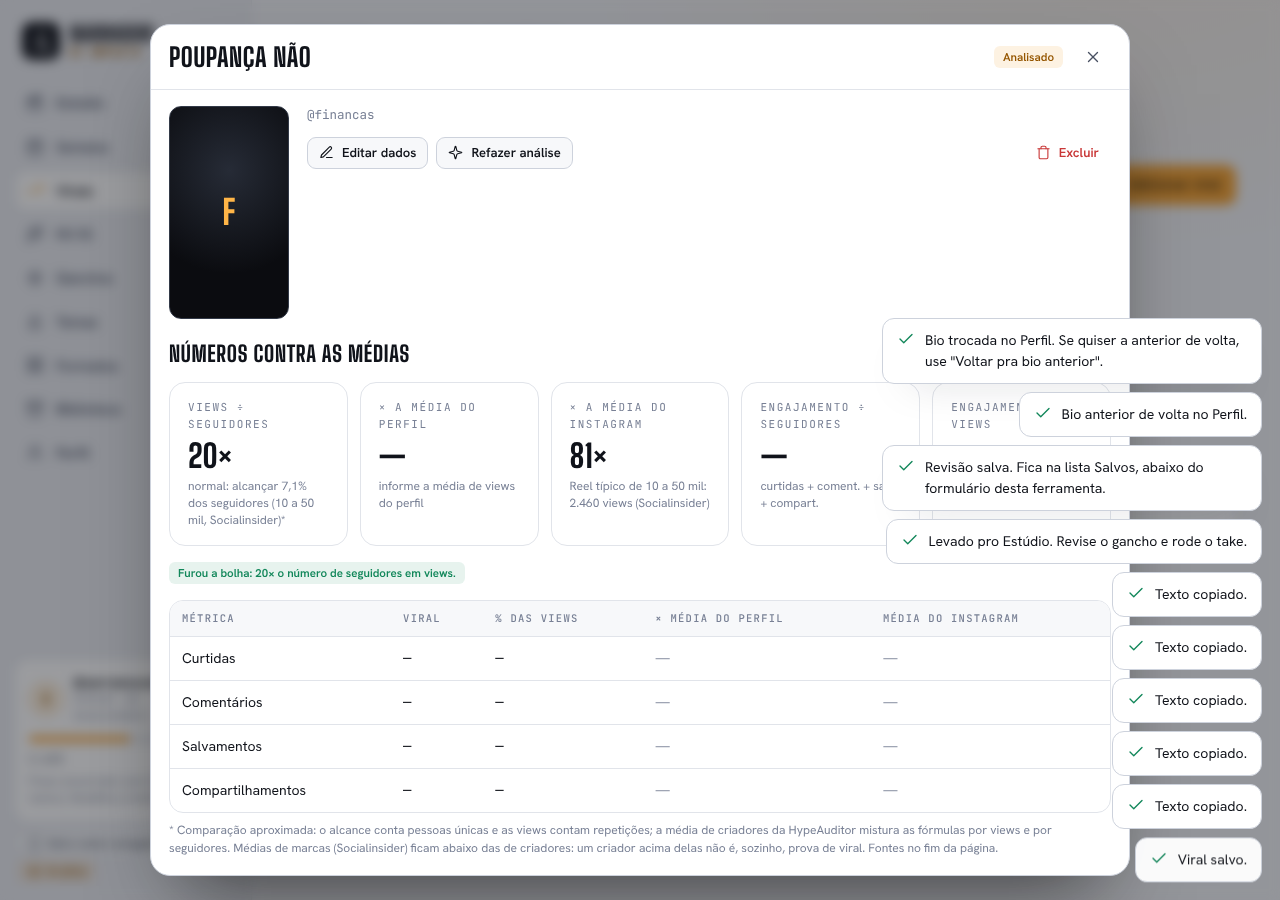
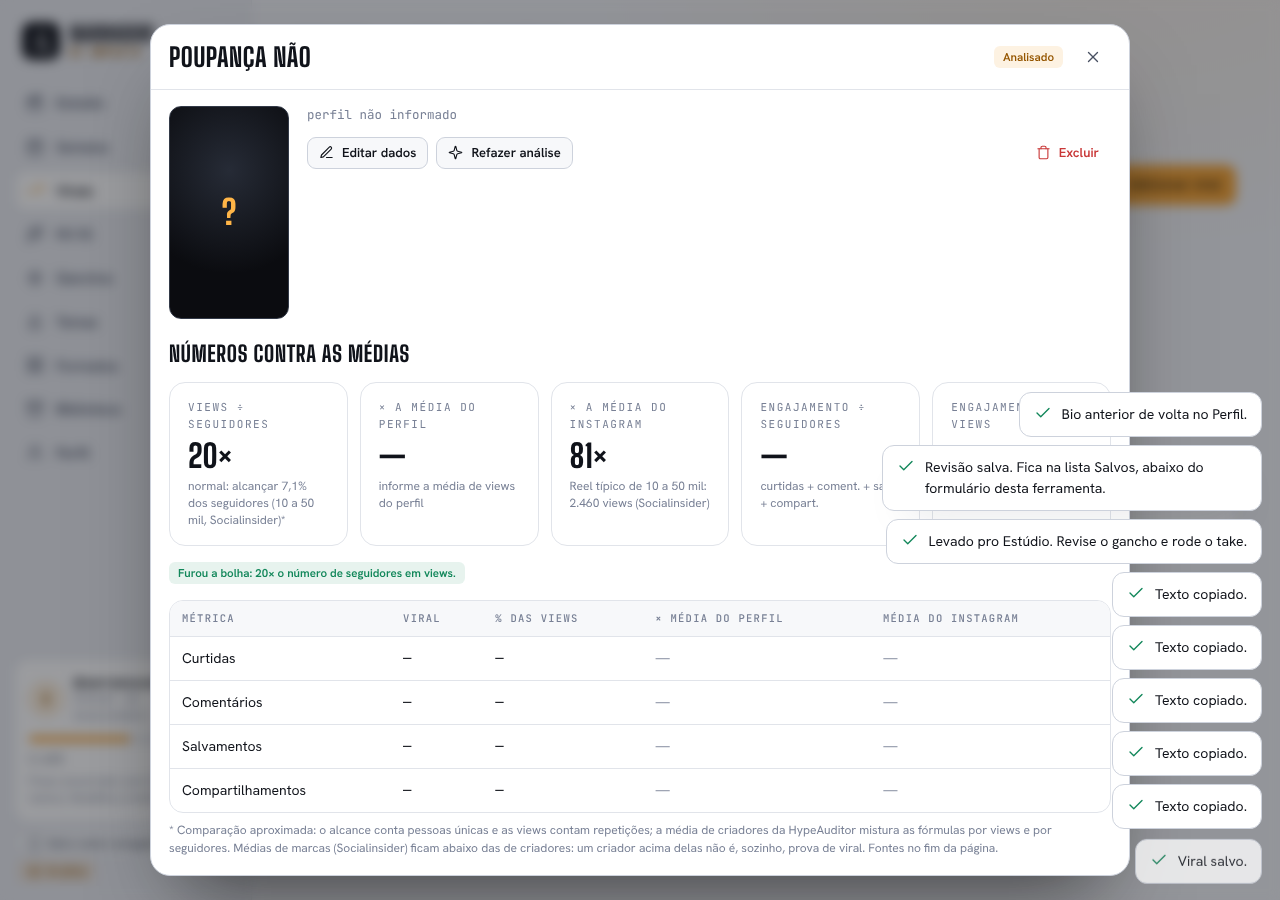
Narrador: carrossel lido pelos prints dos slides (texto, descrição, números) e 'o que era o post' na análise
Claude-Session: https://claude.ai/code/session_01QAZrbRGiPp3RE4ZVEmkwUk

diff --git a/narrador/app.js b/narrador/app.js
@@ -1451,7 +1451,7 @@
         <p class="faint" style="margin:6px 0 10px; font-size:13.5px">Suba os prints de cada slide, na ordem (o primeiro é a capa). A IA lê o texto, o design e a sequência de cada slide. Valem nesta sessão; a capa fica salva.</p>
         <div class="files">${(M.frames || []).map((f, i) => `<div class="fprev"><img src="${esc(M.frameUrls[i])}" alt="Slide ${i + 1}"><span class="tag mono" style="position:absolute; left:4px; bottom:4px; height:18px; font-size:10px">${i + 1}</span></div>`).join('')}
           ${(M.frames || []).length < 20 ? `<label class="fadd" for="v-slides">${ic('upload')}<span>${(M.frames || []).length ? 'Mais slides' : 'Subir slides'}</span></label>` : ''}<input type="file" id="v-slides" accept="image/png,image/jpeg,image/webp" multiple hidden></div>
-        ${(M.frames || []).length ? `<div class="toolbar" style="margin-top:8px"><span class="tag good">${M.frames.length} slides</span><button class="btn xs ghost" data-a="rm-video">${ic('x', 'sm')} Tirar slides</button></div>` : ''}</section>` : `<section><div class="eyebrow">Vídeo do Reel (opcional, recomendado)</div>
+        ${(M.frames || []).length ? `<div class="toolbar" style="margin-top:8px"><span class="tag good">${M.frames.length} slides</span>${M.lendoSlides ? '<span class="tag amber">Lendo os slides…</span>' : M.draft.assistido ? '<span class="tag good">Slides lidos</span>' : ''}<button class="btn xs ghost" data-a="rm-video">${ic('x', 'sm')} Tirar slides</button></div>` : ''}</section>` : `<section><div class="eyebrow">Vídeo do Reel (opcional, recomendado)</div>
         <p class="faint" style="margin:6px 0 10px; font-size:13.5px">Baixe o Reel e suba o arquivo aqui. O app tira quadros do vídeo ao longo do tempo (o primeiro frame, os 3 primeiros segundos e o resto) e a IA "assiste" por eles: enquadramento, texto na tela, cortes, ritmo e prova. O app não ouve o áudio: cole a fala em "Transcrição" (a legenda automática do Instagram ajuda). O vídeo não fica salvo; os quadros valem nesta sessão.</p>
         <div class="files">${(M.frames || []).map((f, i) => `<div class="fprev"><img src="${esc(M.frameUrls[i])}" alt="Quadro aos ${f.t.toFixed(1)} s"><span class="tag mono" style="position:absolute; left:4px; bottom:4px; height:18px; font-size:10px">${f.t.toFixed(1)}s</span></div>`).join('')}
           <label class="fadd" for="v-video">${ic('upload')}<span>${M.extraindo ? 'Lendo o vídeo…' : (M.frames || []).length ? 'Trocar vídeo' : 'Subir vídeo'}</span></label><input type="file" id="v-video" accept="video/*" hidden></div>
@@ -1535,6 +1535,7 @@
     const gc = A.gancho || {};
     const list = (arr, cls) => (arr || []).length ? `<ul class="list ${cls || ''}">${arr.map(x => `<li>${esc(x)}</li>`).join('')}</ul>` : '<p class="faint" style="margin:0">—</p>';
     return `<div class="analysis vanalysis">
+      ${A.conteudo ? `<div><h5>O que era o ${v.tipo === 'carrossel' ? 'carrossel' : 'post'}</h5><p style="margin:0; font-size:15px; line-height:1.55">${esc(A.conteudo)}</p></div>` : ''}
       <div class="decision"><b>Por que viralizou</b>${esc(A.veredito || '')}</div>
       ${(A.fatores || []).length ? `<div><h5>Fatores, do mais forte ao mais fraco</h5><div class="fatores">${A.fatores.map(f => `<div class="fator"><span class="tag">${esc(AREA[f.area] || f.area)}</span><span class="peso" role="img" aria-label="peso ${f.peso} de 5">${[1, 2, 3, 4, 5].map(i => `<i class="${i <= f.peso ? 'on' : ''}"></i>`).join('')}</span><div><p>${esc(f.porque)}</p>${f.evidencia ? `<small>${esc(f.evidencia)}</small>` : ''}</div></div>`).join('')}</div></div>` : ''}
       ${gc.texto ? `<div><h5>O gancho do viral</h5><div class="nextcard" style="flex-direction:column; align-items:flex-start; gap:8px"><q class="mq" style="margin:0">${esc(gc.texto)}</q>
@@ -1663,6 +1664,32 @@
     M.frameUrls = M.frames.map(f => URL.createObjectURL(f.blob));
     if (!M.draft.thumb || M.thumbAuto) { M.draft.thumb = await thumbFrom(M.frames[0].blob); M.thumbAuto = true; }
     if (ui.modal === M) renderModal();
+    if (ui.modal === M && ui.ai === 'on' && ui.imgMax > 0) lerSlides();
+  }
+  // lê os slides com a IA: texto de cada slide, design, do que trata o post e os números se aparecerem
+  async function lerSlides() {
+    const M = ui.modal; if (!M || !sampleFn || M.lendoSlides) return;
+    const lim = ui.imgLim || {};
+    const fr = (M.frames || []).filter(f => !lim.maxInputBytes || f.blob.size <= lim.maxInputBytes);
+    const pr = filesParaIA(M.files || []).slice(0, 1);
+    const imgs = fr.slice(0, Math.max(1, (lim.maxCount || 1) - pr.length)).map(f => f.blob).concat(pr);
+    if (!imgs.length) return;
+    M.lendoSlides = true; renderModal();
+    try {
+      const r = await sampleFn.json(`As ${imgs.length} imagens são ${pr.length ? `os slides de um carrossel do Instagram, em ordem (a primeira é a capa), e a última é um print do post com os contadores` : 'os slides de um carrossel do Instagram, em ordem (a primeira é a capa)'}${fr.length > imgs.length - pr.length ? `; o carrossel tem ${fr.length} slides e só vieram os primeiros` : ''}. Leia SÓ o que aparece, sem inventar. Português do Brasil.
+Responda só com JSON:
+{"slides": [{"n": 1, "texto": "o texto do slide, completo", "visual": "o que aparece: foto, print, gráfico, tipografia, cores"}], "descricao": "o que era o post: do que trata, como aborda o tema, em que formato (lista, antes e depois, comparativo, passo a passo, mito × verdade...) e como a sequência conduz até o final, em 3 a 5 frases", "titulo": "assunto em até 8 palavras", "design": "o padrão visual entre os slides em 1 ou 2 frases", "handle": "@ se aparecer, ou null", "curtidas": "se algum contador aparecer, ou null", "comentarios": null, "compartilhamentos": null, "salvamentos": null}`, { images: imgs, modelTier: 'default', cache: false });
+      const d = M.draft, ok = x => x != null && String(x).trim() && String(x).trim().toLowerCase() !== 'null';
+      const sl = (Array.isArray(r && r.slides) ? r.slides : []).filter(s => s && ok(s.texto)).slice(0, 20);
+      if (sl.length && !String(d.roteiro || '').trim()) d.roteiro = sl.map((s, i) => `Slide ${s.n || i + 1}: ${String(s.texto).trim()}${ok(s.visual) ? ` [visual: ${String(s.visual).trim()}]` : ''}`).join('\n').slice(0, 6000);
+      if (r && ok(r.descricao)) d.assistido = ('O QUE ERA O CARROSSEL: ' + String(r.descricao).trim() + (sl.length ? '\n\nSLIDE A SLIDE:\n' + sl.map((s, i) => `${s.n || i + 1}. ${String(s.texto).trim()}${ok(s.visual) ? ' (' + String(s.visual).trim() + ')' : ''}`).join('\n') : '')).slice(0, 12000);
+      if (r && ok(r.titulo) && !String(d.titulo || '').trim()) d.titulo = String(r.titulo).slice(0, 90);
+      if (r && ok(r.design) && !String(d.edicao || '').trim()) d.edicao = String(r.design).slice(0, 1000);
+      if (r && ok(r.handle) && !String(d.handle || '').trim()) d.handle = String(r.handle).startsWith('@') ? String(r.handle) : '@' + r.handle;
+      ['curtidas', 'comentarios', 'compartilhamentos', 'salvamentos'].forEach(k => { if (r && ok(r[k]) && E.parseNum(r[k]) != null && !String(d[k] || '').trim()) d[k] = String(r[k]).trim(); });
+      toast(sl.length ? `${sl.length} slides lidos. A descrição do carrossel vai junto na análise.` : 'Não deu pra ler o texto dos slides.', sl.length ? 'good' : 'warn');
+    } catch (e) { toast(sampleErr(e).msg, 'bad'); }
+    if (ui.modal === M) { M.lendoSlides = false; renderModal(); }
   }
   async function addVideo(file) {
     const M = ui.modal; if (!M || M.type !== 'viral-form' || !file) return;
@@ -1765,6 +1792,7 @@
       const fmt = String(r.formato || '').toLowerCase().trim();
       const analise = {
         veredito: String(r.veredito || ''),
+        conteudo: String(r.conteudo || '').slice(0, 2000),
         fatores: (Array.isArray(r.fatores) ? r.fatores : []).filter(f => f && typeof f === 'object').slice(0, 8).map(f => ({ area: areaOk(String(f.area || '').toLowerCase()), peso: Math.max(1, Math.min(5, Math.round(Number(f.peso) || 1))), porque: String(f.porque || ''), evidencia: String(f.evidencia || '') })).filter(f => f.porque).sort((a, b) => b.peso - a.peso),
         gancho: r.gancho && typeof r.gancho === 'object' ? { texto: String(r.gancho.texto || ''), categoria: E.cat(Number(r.gancho.categoria)) ? Number(r.gancho.categoria) : null, formula: String(r.gancho.formula || '').normalize('NFD').replace(/[\u0300-\u036f]/g, '').toLowerCase().replace(/[^a-z]/g, '').slice(0, 20), pilares: arr(r.gancho.pilares, 4), porque: String(r.gancho.porque || '') } : null,
         entrega: r.entrega && typeof r.entrega === 'object' ? { transformacao: String(r.entrega.transformacao || '').slice(0, 400), levaPronto: String(r.entrega.levaPronto || '').slice(0, 400), porQueSeguir: String(r.entrega.porQueSeguir || '').slice(0, 400), comoSuperar: String(r.entrega.comoSuperar || '').slice(0, 500) } : null,

diff --git a/narrador/ig-link.js b/narrador/ig-link.js
@@ -80,6 +80,7 @@
     const passos = (L.passos || []).map(p => `<li class="${p.ok === false ? 'bad' : ''}"><b>${esc(p.t)}</b>${p.d ? `<span>${esc(p.d)}</span>` : ''}</li>`).join('');
     return `<div class="kl-box">
       <div class="kit-row"><b class="grow">Puxar tudo pelo link</b><button type="button" class="btn sm primary" data-a="x-link-puxar" ${L.busy || !pronto ? 'disabled' : ''}>${ic('spark', 'sm')} ${L.busy ? 'Puxando…' : 'Puxar dados e assistir'}</button></div>
+      ${(M.draft || {}).tipo === 'carrossel' ? `<p class="kit-hint"><b>Carrossel:</b> o vidIQ traz só o perfil e a média de curtidas e comentários. O conteúdo vem dos prints: suba abaixo os prints dos slides, na ordem, e um print do post mostrando curtidas e comentários. A IA lê cada slide, descreve o carrossel inteiro e preenche os números sozinha.</p>` : ''}
       <p class="kit-hint">Cole o link do Reel e o @ de quem postou. O app usa o seu vidIQ (conector do claude.ai) pra trazer seguidores, views, curtidas, comentários, duração, data, legenda, capa e a média do perfil, e pra assistir o vídeo cena a cena. Depois salva e analisa sozinho. Gasta cerca de 20 créditos do vidIQ por viral. Compartilhamentos e salvamentos o Instagram não mostra pra quem não é o dono.</p>
       ${passos ? `<ul class="fixlist kl-passos">${passos}</ul>` : ''}
       ${L.err ? `<p class="gate-err">${ic('alert', 'sm')}<span>${esc(L.err)}</span></p>` : ''}
@@ -128,7 +129,7 @@
       if (!handle) {
         passo(M, 'Falta o @ do perfil', 'O link do Reel não diz quem postou. Vou tentar descobrir assistindo o vídeo; se puder, preencha o @ e clique de novo pra trazer seguidores e números.', false);
       } else {
-        const [rp, rr] = await Promise.all([call(T.perfil, { handle }).catch(e => ({ __err: e })), cod.tipo === 'reel' ? call(T.reels, { handle }).catch(e => ({ __err: e })) : Promise.resolve(null)]);
+        const [rp, rr] = await Promise.all([call(T.perfil, { handle }).catch(e => ({ __err: e })), call(T.reels, { handle }).catch(e => ({ __err: e }))]);
         if (rp && rp.__err) passo(M, 'Perfil não lido', msgErro(rp.__err), false);
         else {
           const P = lerPerfil(rp);
@@ -148,10 +149,11 @@
               try { const blob = b64Blob(este.capa.data, este.capa.mime); const th = await a.thumbFrom(blob); if (th) { d.thumb = th; M.thumbAuto = false; } M.capaBlob = blob; } catch (e) { }
             }
             passo(M, 'Números do Reel', [este.views && este.views + ' views', este.curtidas && este.curtidas + ' curtidas', este.comentarios && este.comentarios + ' comentários', este.duracao && este.duracao + ' s'].filter(Boolean).join(' · '));
-          } else passo(M, 'Este Reel não está entre os 12 mais recentes do perfil', 'Os números dele não vieram: suba um print da tela do Reel pra completar.', false);
+          } else if (cod.tipo === 'post') passo(M, 'Carrossel: o vidIQ não lê posts de carrossel', 'Suba os prints dos slides (e um print do post com as curtidas e comentários). A IA lê o texto de cada slide, descreve o carrossel e preenche os números.', false);
+          else passo(M, 'Este Reel não está entre os 12 mais recentes do perfil', 'Os números dele não vieram: suba um print da tela do Reel pra completar.', false);
           if (outros.length) {
-            d.media = Object.assign({}, d.media || {}, { views: media(outros.map(r => r.views)), curtidas: media(outros.map(r => r.curtidas)), comentarios: media(outros.map(r => r.comentarios)) });
-            passo(M, 'Média do perfil', `${outros.length} Reels recentes usados pra comparar.`);
+            d.media = Object.assign({}, d.media || {}, cod.tipo === 'post' ? {} : { views: media(outros.map(r => r.views)) }, { curtidas: media(outros.map(r => r.curtidas)), comentarios: media(outros.map(r => r.comentarios)) });
+            passo(M, 'Média do perfil', `${outros.length} Reels recentes usados pra comparar${cod.tipo === 'post' ? ' (curtidas e comentários; carrossel não tem média própria no vidIQ)' : ''}.`);
           }
         }
       }

diff --git a/narrador/teste/teste-novos.js b/narrador/teste/teste-novos.js
@@ -78,9 +78,12 @@ const ok = (c, m) => { console.log((c ? 'ok   ' : 'FALHA') + ' ' + m); if (!c) p
   await page.click('[data-a="vf-tipo"][data-t="carrossel"]');
   ok(await page.locator('#v-slides').count() === 1 && await page.locator('#v-video').count() === 0, 'carrossel troca vídeo por slides');
   await page.setInputFiles('#v-slides', ['slide1.png', 'slide2.png', 'slide3.png'].map(f => path.join(__dirname, f)));
+  await page.evaluate(() => window.__respostas.push({ json: { slides: [{ n: 1, texto: 'Anúncio fraco', visual: 'fundo vermelho' }, { n: 2, texto: 'Anúncio ok' }, { n: 3, texto: 'Anúncio forte' }], descricao: 'Comparativo em 3 níveis de anúncio', titulo: 'Anúncio fraco vs forte', curtidas: '15 mil', comentarios: '300' } }));
   await page.waitForFunction(() => (window.NDA.ui.modal.frames || []).length === 3);
-  await page.fill('#vf-titulo', 'Mitos do MEI'); await page.fill('#vf-seguidores', '20 mil'); await page.fill('#vf-curtidas', '15 mil');
-  await page.evaluate(() => window.__respostas.push({ json: { veredito: 'Mito x verdade', fatores: [{ area: 'gancho', peso: 5, porque: 'x' }], estrutura: [{ parte: 'Slide 1', oque: 'capa' }, { parte: 'Slide 2', oque: 'mito 1' }, { parte: 'Slide 3', oque: 'cta' }], modelagem: { gancho: 'g', formato: 'lista', angulo: 'a' } } }));
+  await page.waitForFunction(() => /Slide 1: Anúncio fraco/.test(window.NDA.ui.modal.draft.roteiro || '') && /O QUE ERA O CARROSSEL/.test(window.NDA.ui.modal.draft.assistido || ''));
+  ok(true, 'slides lidos pela IA: texto, descrição e números');
+  await page.fill('#vf-seguidores', '20 mil');
+  await page.evaluate(() => window.__respostas.push({ json: { veredito: 'Mito x verdade', fatores: [{ area: 'gancho', peso: 5, porque: 'x' }], conteudo: 'Era um comparativo', estrutura: [{ parte: 'Slide 1', oque: 'capa' }, { parte: 'Slide 2', oque: 'mito 1' }, { parte: 'Slide 3', oque: 'cta' }], modelagem: { gancho: 'g', formato: 'lista', angulo: 'a' } } }));
   await page.click('[data-a="salvar-viral"][data-analisar="1"]');
   await page.waitForFunction(() => window.NDA.st.virais[0].tipo === 'carrossel' && window.NDA.st.virais[0].analise);
   const p3 = await page.evaluate(() => window.__prompts[window.__prompts.length - 1]);

diff --git a/narrador/engine.js b/narrador/engine.js
@@ -1268,7 +1268,8 @@ FORMATOS (id): ${N.FORMATOS.map(f => f.id + ' = ' + f.nome + ' (' + f.dur[0] + '
 9. Fórmula do gancho, escolha a mais próxima: numero (número primeiro com resultado), contraria (verdade contrária), cena (cena identificável), confissao (história com custo real), lista (lista numerada), antesdepois (transformação), mito (mito × verdade), framework (método com nome), quebra (quebra de padrão com loop aberto), comoeu ("como eu" com resultado).
 
 Responda só com JSON, sem nada antes ou depois:
-{"veredito": "uma frase: por que viralizou",
+{"conteudo": "o que era o post, em 3 a 5 frases: do que trata, como aborda o tema, em que formato e como a sequência (os slides ou as cenas) conduz até o final",
+ "veredito": "uma frase: por que viralizou",
  "fatores": [{"area": "gancho|roteiro|edicao|formato|tema|audio|legenda|numeros|perfil", "peso": 5, "porque": "uma frase", "evidencia": "o dado, a fala ou o detalhe que prova"}],
  "gancho": {"texto": "o gancho do viral, transcrito", "categoria": 3, "formula": "contraria", "pilares": ["surpresa", "dor universal"], "porque": "uma frase"},
  "entrega": {"transformacao": "antes → depois que o viral provoca em quem assiste", "levaPronto": "o que a pessoa leva pra usar (ou 'nada concreto')", "porQueSeguir": "por que alguém seguiria o perfil depois (ou por que não seguiria)", "comoSuperar": "como a versão do criador entrega mais valor que o original, em 1 ou 2 frases"},
